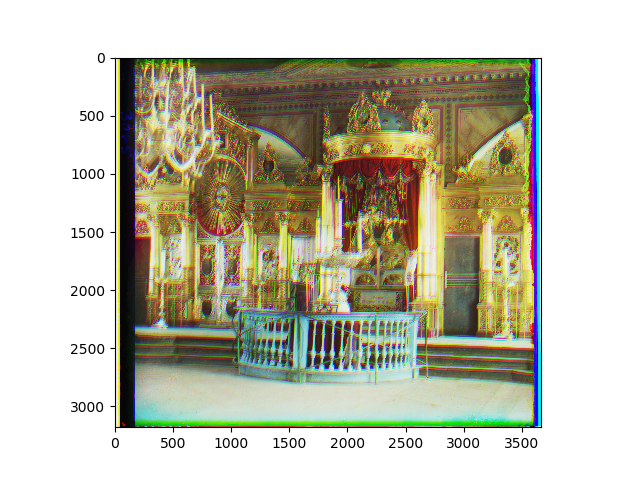
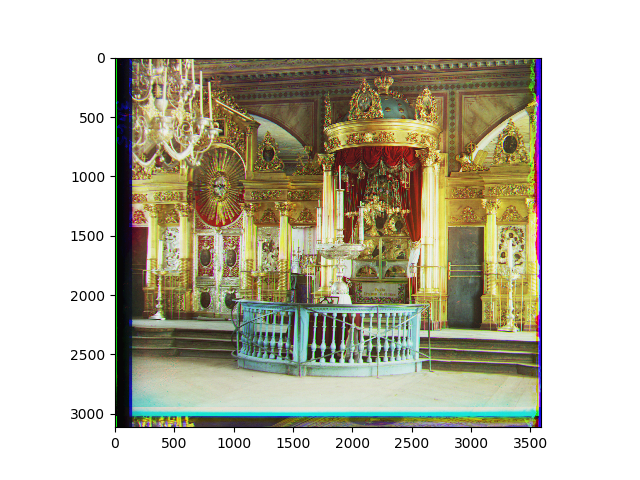
add HW2/colorizing_speedup.py & update result

diff --git a/HW2/colorizing_speedup.py b/HW2/colorizing_speedup.py
@@ -1,0 +1,74 @@
+import os
+import numpy as np
+import cv2
+import matplotlib.pyplot as plt
+
+# normalized cross correlation
+def ncc(g,f):
+    g=g-g.mean(axis=0)
+    f=f-f.mean(axis=0)
+    return np.sum((g * f)/(np.linalg.norm(g)) * (np.linalg.norm(f)))
+
+def Align(img1,img2,t):
+    mini = float("-inf")
+    col=np.linspace(-t,t,2*t,dtype=int)
+    row=np.linspace(-t,t,2*t,dtype=int)
+    for i in col:
+        for j in row:
+            # find ncc difference
+            diff = ncc(img1,np.roll(img2,[i,j],axis=(0,1)))
+            # if difference bigger than found before
+            if diff > mini:
+                mini = diff
+                offset = [i,j]
+    return offset
+
+def subsampling(img,rate):
+    newImg = np.zeros((img.shape[0]//rate,img.shape[1]//rate,3)) if len(img.shape) == 3 else np.zeros((img.shape[0]//rate,img.shape[1]//rate))
+    # for each row and column pick the even pixel
+    for i in range(newImg.shape[0]):
+        for j in range(newImg.shape[1]):
+            newImg[i][j] = img[2*i][2*j]
+    return newImg
+
+if __name__ == "__main__":
+
+    root = os.path.join('hw2_data','task3_colorizing')
+    name = 'onion_church.tif'
+    IS_TIF=True if name.split('.')[-1]=='tif' else False
+    subsample_rate=10
+    t=15 # t depends on image
+    img=cv2.imread(os.path.join(root,name),0)
+    h, w = img.shape[:2]
+    img = img[int(h * 0.02):int(h - h * 0.02), int(w * 0.02):int(w - w * 0.02)]  # the cutting ratio depends on image
+    h,w = img.shape[:2]
+    # get RGB image
+    height = h // 3
+    blue = img[0:height, :]
+    green = img[height:2 * height, :]
+    red = img[2 * height:3 * height, :]
+
+    # Resize blue,green,red to smaller size before Align
+    if IS_TIF:
+        #subsample_img=subsampling(img,subsample_rate)
+        subsample_img= cv2.resize(img, (w//subsample_rate, h//subsample_rate), interpolation=cv2.INTER_CUBIC)  # better subsample result
+        height = subsample_img.shape[0] // 3
+        blue_ = subsample_img[0:height, :]
+        green_ = subsample_img[height:2 * height, :]
+        red_ = subsample_img[2 * height:3 * height, :]
+
+    # get the offset of x and y direction
+    offset_g = Align(blue_ if IS_TIF else blue,green_ if IS_TIF else green,t)
+    offset_r = Align(blue_ if IS_TIF else blue,red_ if IS_TIF else red,t)
+    print(offset_g)
+    print(offset_r)
+
+    # shift the green and red image
+    green=np.roll(green,[element*subsample_rate for element in offset_g] if IS_TIF else offset_g,axis=(0,1))
+    red=np.roll(red,[element*subsample_rate for element in offset_r] if IS_TIF else offset_r,axis=(0,1))
+
+    # concat RGB and draw
+    result = np.concatenate((red[:,:,None],green[:,:,None],blue[:,:,None]),axis=2)
+    plt.imshow(result)
+    plt.savefig(os.path.join('result','task3',f'{name.split(".")[0]}'))
+    plt.waitforbuttonpress(0)

diff --git a/HW2/colorizing.py b/HW2/colorizing.py
@@ -26,7 +26,7 @@ def Align(target,x,t):
 if __name__ == "__main__":
 
     root = os.path.join('hw2_data','task3_colorizing')
-    name = 'workshop.tif'
+    name = 'monastery.jpg'
     img=cv2.imread(os.path.join(root,name),0)
     w, h = img.shape[:2]
     img = img[int(w * 0.01):int(w - w * 0.01), int(h * 0.01):int(h - h * 0.01)]  # remove the
@@ -39,14 +39,17 @@ if __name__ == "__main__":
     red = img[2 * height:3 * height, :]
 
     # get the offset of x and y direction
-    offect_g = Align(blue,green,10)
+    offset_g = Align(blue,green,10)
     offset_r = Align(blue,red,10)
+    print(offset_g)
+    print(offset_r)
 
     # shift the green and red image
-    green=np.roll(green,offect_g,axis=(0,1))
+    green=np.roll(green,offset_g,axis=(0,1))
     red=np.roll(red,offset_r,axis=(0,1))
 
     # concat RGB and draw
     result = np.concatenate((red[:,:,None],green[:,:,None],blue[:,:,None]),axis=2)
     plt.imshow(result)
     plt.savefig(os.path.join('result','task3',f'{name.split(".")[0]}'))
+    plt.waitforbuttonpress(0)

diff --git a/HW2/hybrid.py b/HW2/hybrid.py
@@ -86,9 +86,9 @@ def normalize(img):
 
 if __name__ == "__main__":
     root = os.path.join('hw2_data','task1and2_hybrid_pyramid')
-    name1='6_makeup_after.jpg'
-    name2='6_makeup_before.jpg'
-    cutoff_frequencies=[6] # bigger value -> clearer lowPass & less highPass
+    name1='3_cat.bmp'
+    name2='3_dog.bmp'
+    cutoff_frequencies=[5] # bigger value -> clearer lowPass & less highPass
     # load images
     img1 = cv2.imread(os.path.join(root,name1))
     img2 = cv2.imread(os.path.join(root,name2))
